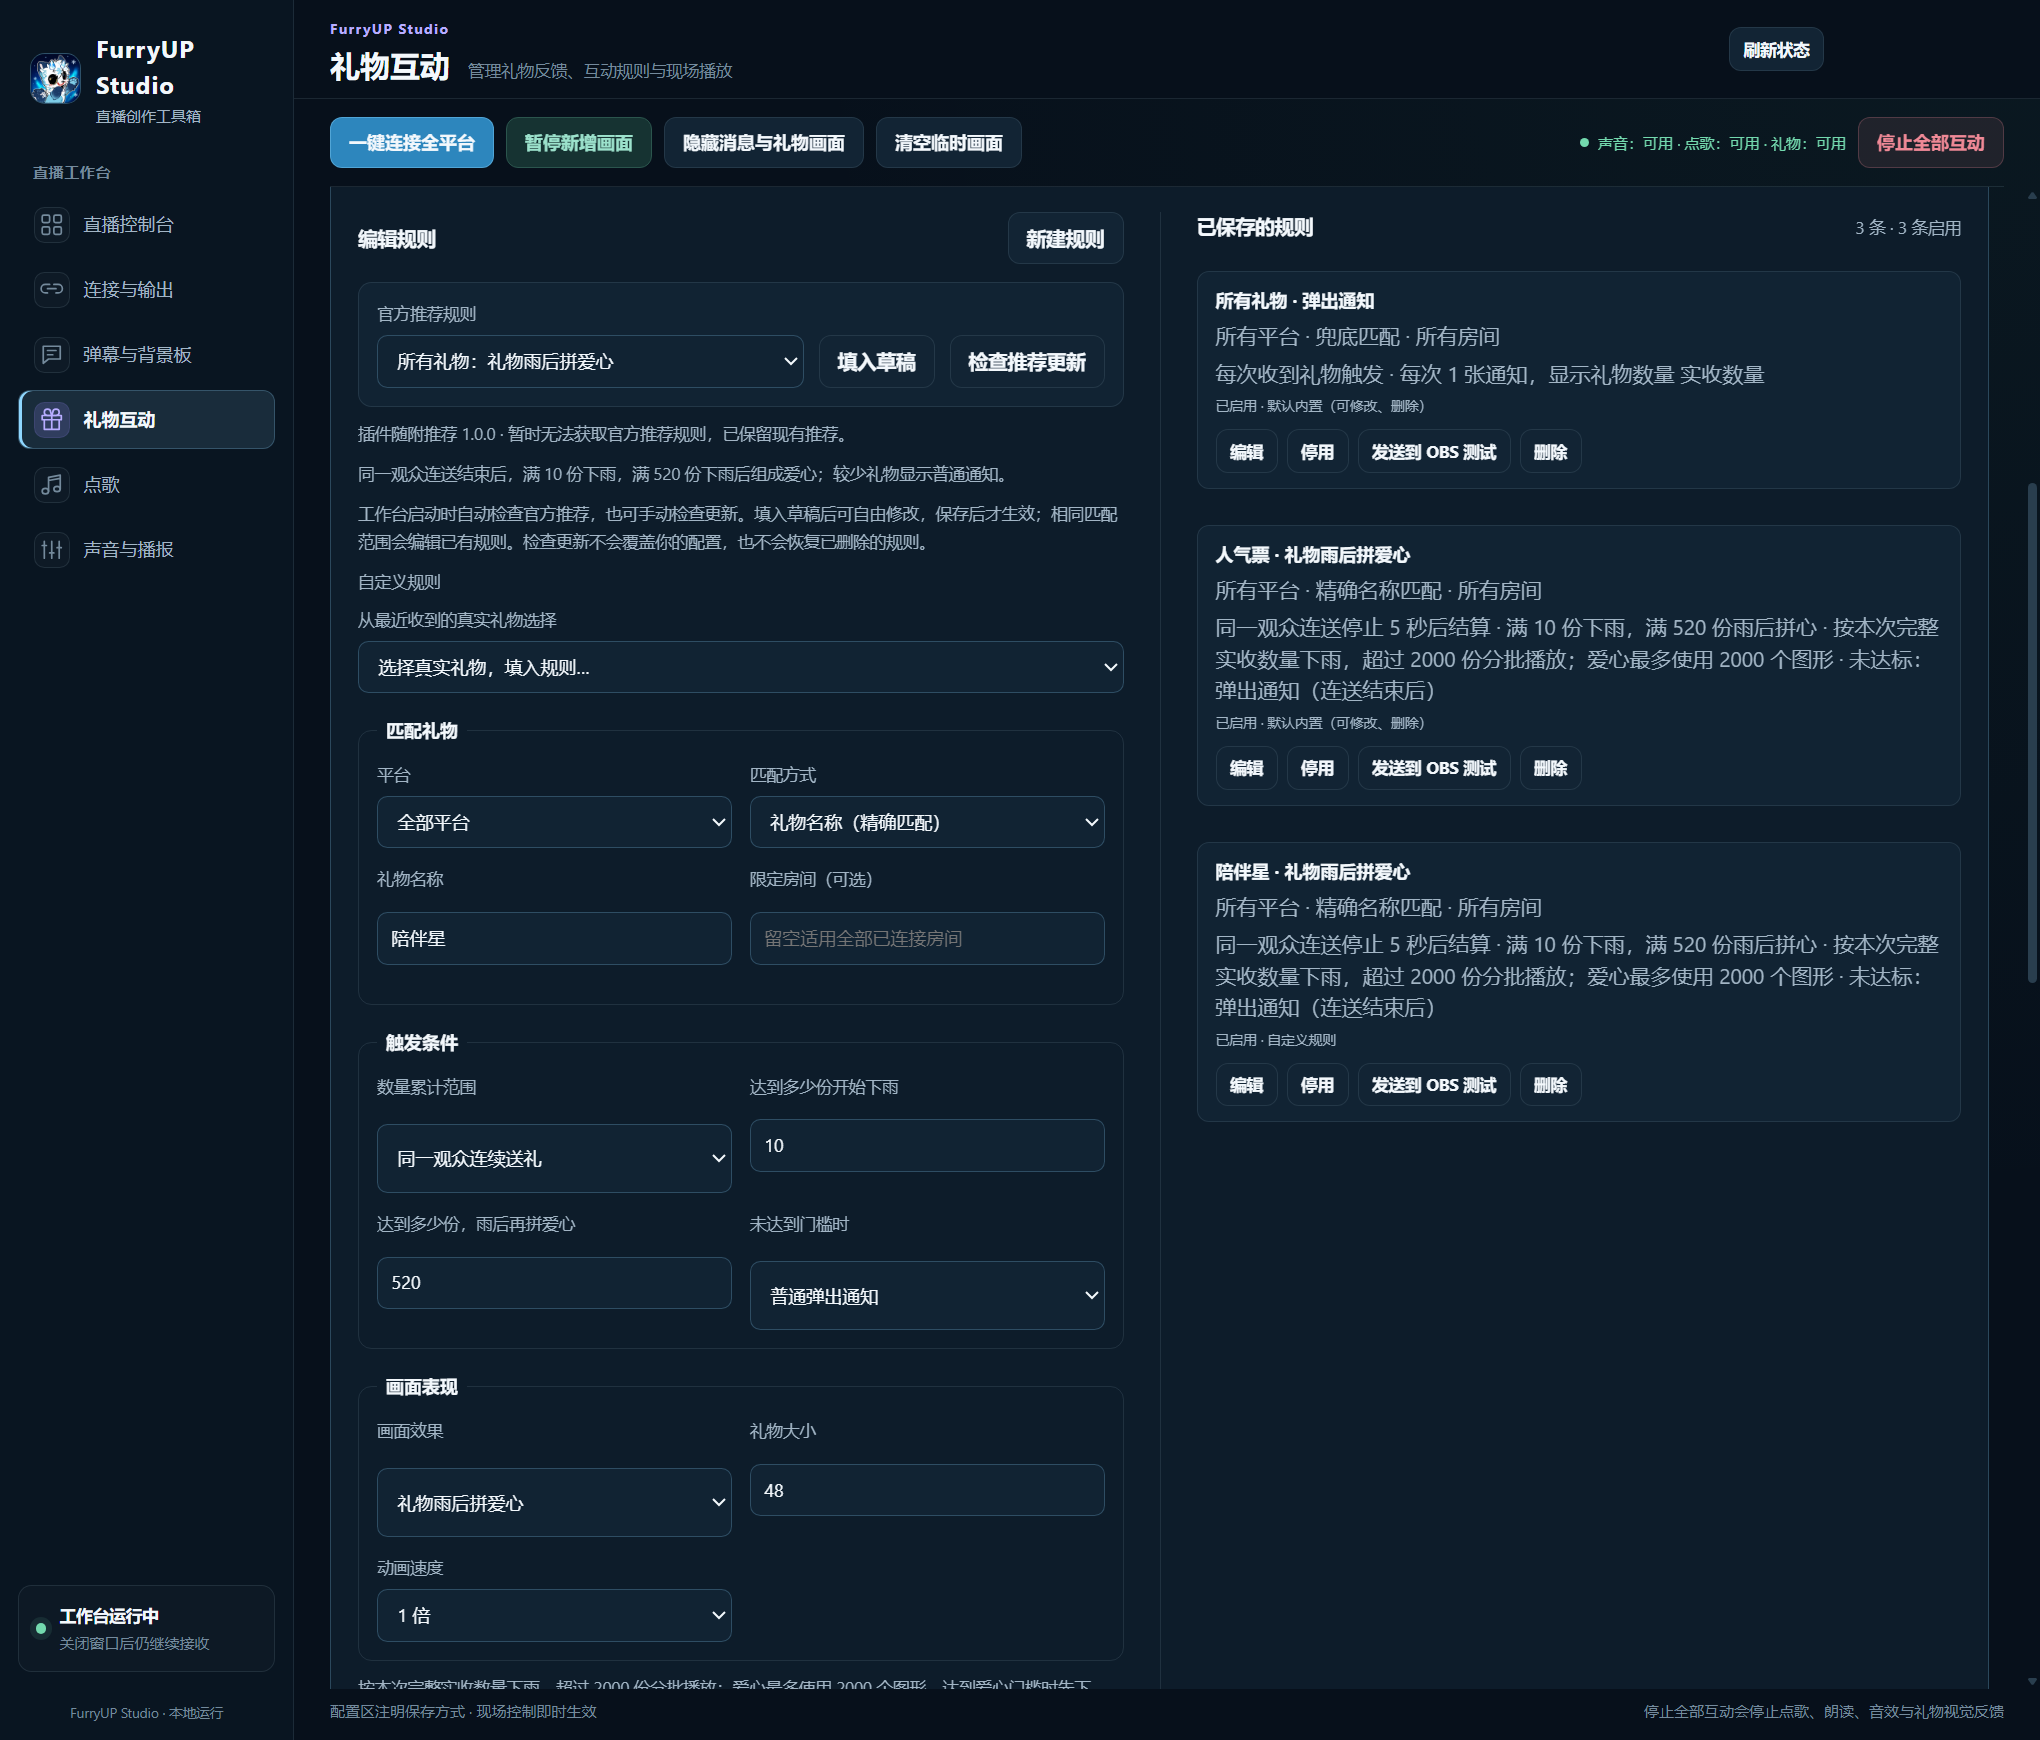
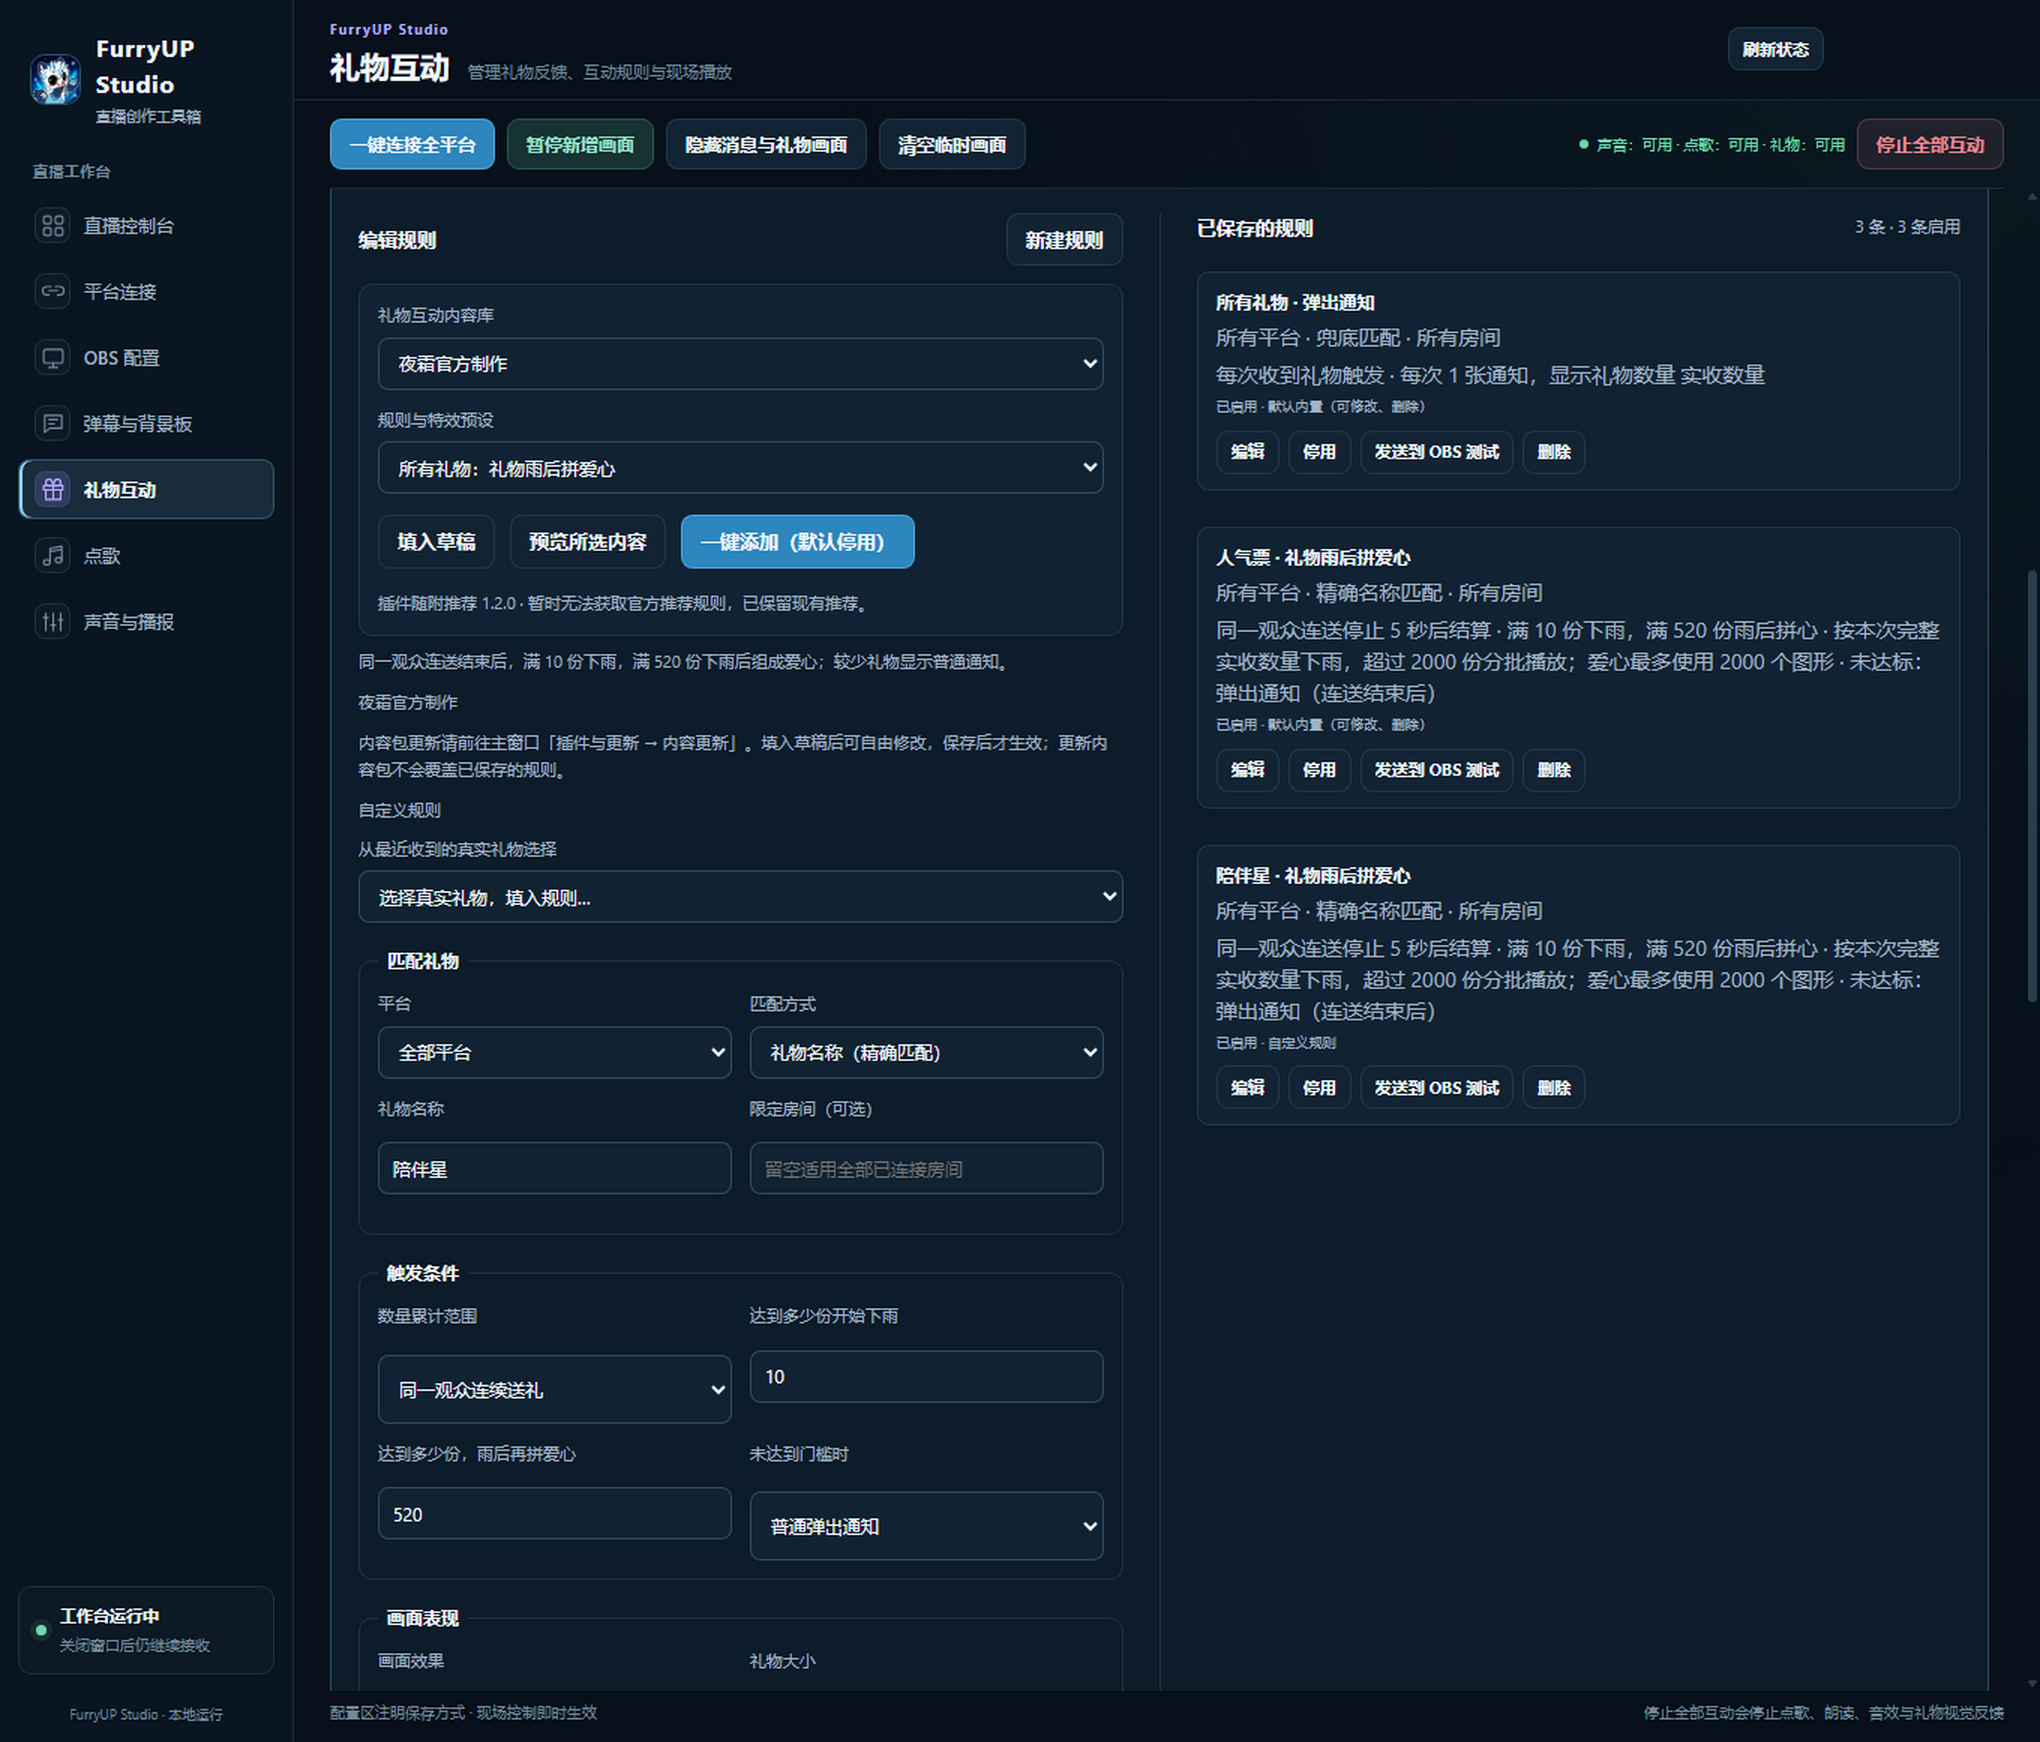
docs: publish FurryUP Studio 0.13.1 gift content updates and layout fixes

diff --git a/CHANGELOG.md b/CHANGELOG.md
@@ -4,6 +4,18 @@
 
 这里记录面向使用者的重要变化。历史条目依据版本说明和构建记录整理，部分版本曾作为本地验收或内测候选；并非每个版本都曾提供公开安装包。历史功能范围不代表当前全部开放，下载请以本仓库 Releases 为准。
 
+## 0.13.1 · 2026-10-24
+
+**礼物互动内容更新与工作台布局修复**
+
+- **统一内容更新：** 在「插件与更新 → 内容更新 → 礼物互动内容包」检查与更新夜霜官方和第三方精选的特效及推荐规则，保留已保存的规则和配置。
+- **工作台布局：** 修复礼物选择框被按钮挤窄的问题；预览、填入草稿和一键添加独立排列，移除重复更新入口。
+- **独立内容包：** 已适配接口的新增特效与规则可独立更新；第三方精选支持预览与一键添加，默认停用，确认后启用。
+- **礼物画面：** 爱心边缘改为自然随机分布，合并效果重复的内置规则。
+- **版本状态：** 主窗口识别工作台已更新的内容缓存，刷新时显示实际内容版本。
+- **随包插件：** 直播工作台 0.13.3；直播助手 0.5.1、桌宠联动 0.5.3、iPhone 投屏预览 0.4.6 保持现有公开版本。
+- **兼容保留：** 旧礼物规则渠道和已发布历史下载保留；公开投屏预览不含原生接收器。
+
 ## 0.12.4 · 2026-10-24
 
 **插件加载、模型导入与稳定性修复**
